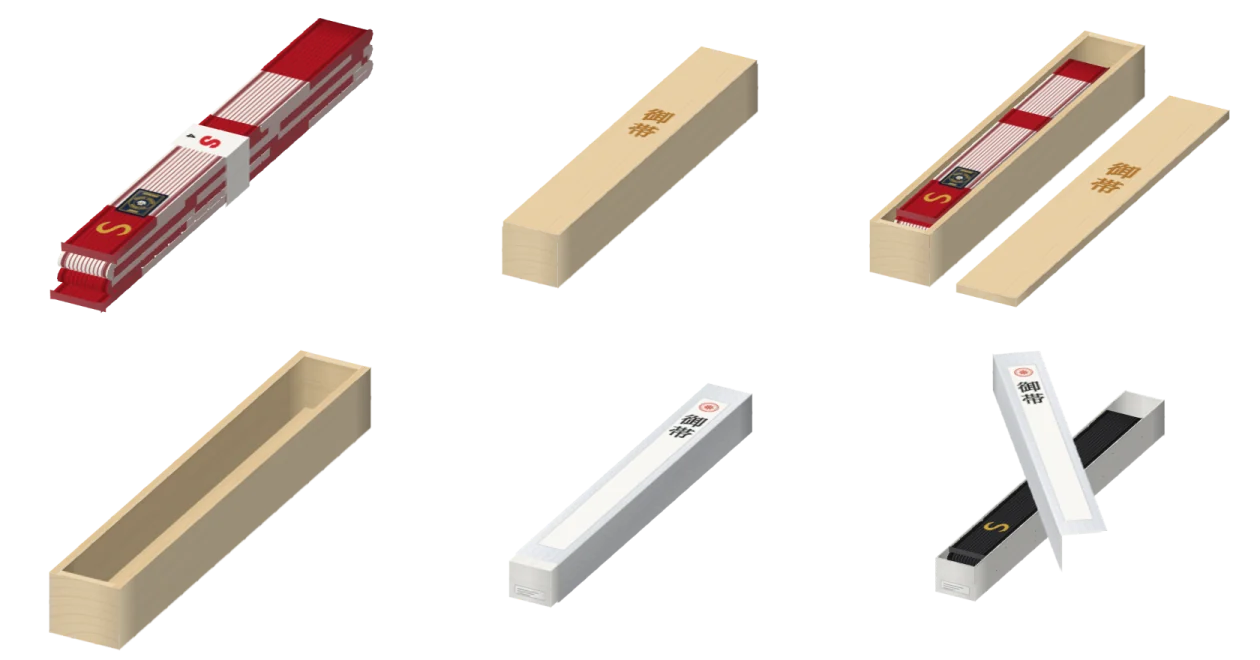
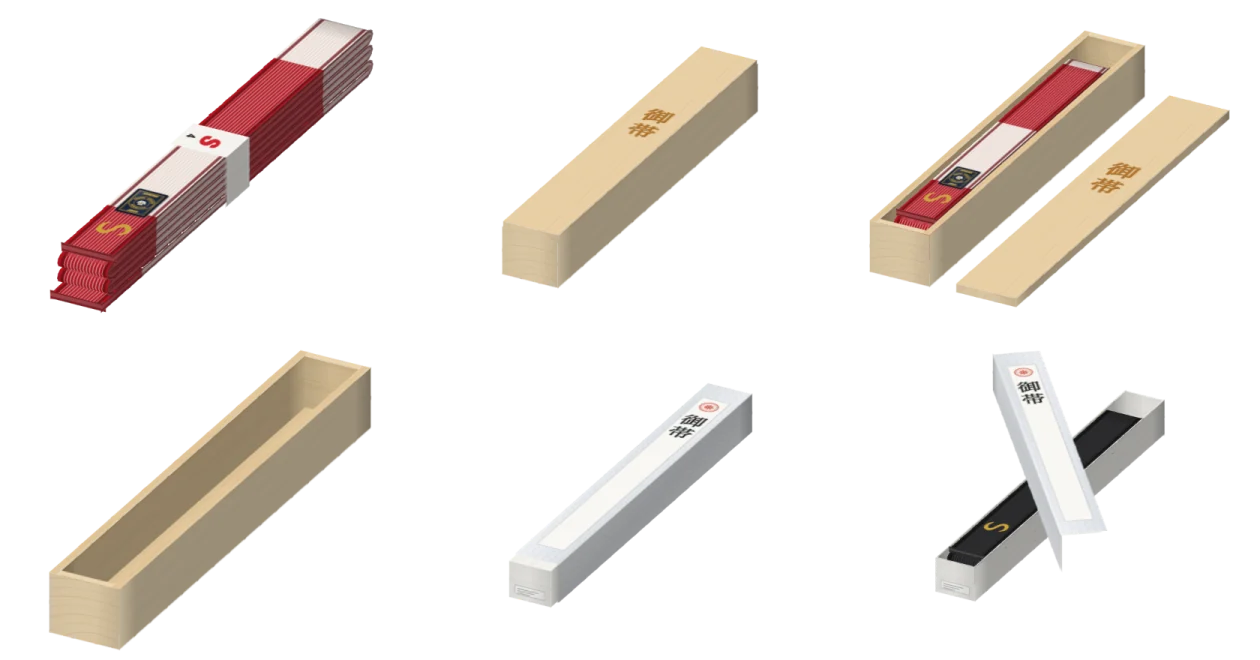
fix(belts): folded layers line up, fine rows

Changed region(s): [[0.031, 0.0303, 0.3095, 0.4545], [0.7119, 0.0909, 0.8976, 0.3636]]

diff --git a/demo/judogiIcons.js b/demo/judogiIcons.js
@@ -6,6 +6,6 @@ export const MODE_ICONS = {
[7 lines of base64/hex data omitted]
 };

diff --git a/src/beltBox.ts b/src/beltBox.ts
@@ -385,6 +385,8 @@ export interface Along {
   u: number;
   /** How much of the belt's thickness it has here, 0 to 1: a tight fold is thinner at its turn, or its inside would turn inside out. */
   k?: number;
+  /** On a fold: where the layer before it ended (how far along the belt and where across the bundle), which its picture carries on from. */
+  fold?: { u0: number; wx0: number };
 }
 
 /** Where the belt's plain stretch is laid on its strip. */
@@ -421,10 +423,10 @@ export function foldPath(f: FoldDesc): { points: Along[]; length: number; extent
   const side = n % 2 === 1 ? 1 : -1;
   const pts: Along[] = [];
   let u = 0;
-  const push = (p: Vec, d: Vec, out: Vec, k = 1): void => {
+  const push = (p: Vec, d: Vec, out: Vec, k = 1, fold?: { u0: number; wx0: number }): void => {
     const last = pts[pts.length - 1];
     if (last !== undefined) u += Math.hypot(p[0] - last.p[0], p[1] - last.p[1], p[2] - last.p[2]);
-    pts.push({ p, d, out, u, k });
+    pts.push({ p, d, out, u, k, ...(fold === undefined ? {} : { fold }) });
   };
   for (let i = 0; i < n; i++) {
     const dir = i % 2 === 0 ? -1 : 1;
@@ -439,6 +441,7 @@ export function foldPath(f: FoldDesc): { points: Along[]; length: number; extent
       const yc = (yAt(i) + yAt(i + 1)) / 2;
       const zn = f.z + ((((i + 1) * 37) % 5) - 2) * 0.02;
       const m = 6;
+      const anchor = { u0: u, wx0: b };
       for (let j = 1; j < m; j++) {
         const th = (Math.PI * j) / m;
         const sgn = left ? -1 : 1;
@@ -446,40 +449,67 @@ export function foldPath(f: FoldDesc): { points: Along[]; length: number; extent
         const dy = -Math.sin(th) * (yAt(i) - yc);
         const dl = Math.hypot(dx, dy) || 1;
         // The face looks to the right of the way the belt runs (the same side all along it).
-        push([b + sgn * Math.sin(th) * bulge, yc + Math.cos(th) * (yAt(i) - yc), lerp(z, zn, j / m)], [dx / dl, dy / dl, 0], [(-side * dy) / dl, (side * dx) / dl, 0], 1 - 0.5 * Math.sin(th));
+        push([b + sgn * Math.sin(th) * bulge, yc + Math.cos(th) * (yAt(i) - yc), lerp(z, zn, j / m)], [dx / dl, dy / dl, 0], [(-side * dy) / dl, (side * dx) / dl, 0], 1 - 0.5 * Math.sin(th), anchor);
       }
     }
   }
   return { points: pts, length: u, extent: [lo + shift, hi + shift] };
 }
 
-/** The strip's x for a place `u` centimetres along a belt `total` long, and which way x runs there (+1 with the belt, -1 against it). */
-function stripX(u: number, total: number, period: number): { x: number; dir: 1 | -1 } {
-  const uu = u * U;
-  const tot = total * U;
-  // Each free end lies on its own stretch of the strip, as long as the tied belt's hanging end (what is sewn on an end is laid out for that length).
-  const [endA, endB] = END_LENGTH;
-  if (uu < endB) return { x: (END_X[1] as number) + endB - uu, dir: -1 };
-  if (tot - uu < endA) return { x: (END_X[0] as number) + (uu - (tot - endA)), dir: 1 };
-  if (u < total / 2) return { x: (END_X[1] as number) - ((uu - endB) % period), dir: -1 };
-  return { x: X0 - 10 + (uu % period), dir: 1 };
+/**
+ * How the belt's picture is laid along it. Each free end lies on its own stretch of the strip, as long as the tied belt's hanging end (what is sewn on an end is laid
+ * out for that length, so the marks sit where they would). The rest of the belt takes its picture from where it lies across the bundle, one mapping for every layer
+ * (anchored on the top layer's tip, so that end stays red): a kohaku belt's red and white sections then change colour at the same place on every layer, and the side
+ * of the bundle is a clean stack of bands with straight joins. A fold carries the picture of the layer before it on round the turn.
+ */
+interface Laying {
+  total: number;
+  period: number;
+  /** +1 when the picture's x grows toward +x across the bundle, -1 toward -x (the way the top layer's tip lies). */
+  sx: 1 | -1;
+  c: number;
 }
+
+function layingOf(points: readonly Along[], period: number): Laying {
+  const last = points[points.length - 1] as Along;
+  const sx: 1 | -1 = last.d[0] >= 0 ? 1 : -1;
+  const [endA] = END_LENGTH;
+  return { total: last.u, period, sx, c: (END_X[0] as number) + endA - sx * U * last.p[0] };
+}
+
+/** The picture's x at a place on the belt, not wrapped; `mid` says which stretch (by the middle of the step) and the fold, if any, it carries on from. */
+function texAt(l: Laying, u: number, p: Along, mode: "A" | "B" | "bulk"): number {
+  const [endA, endB] = END_LENGTH;
+  if (mode === "B") return (END_X[1] as number) + endB - u * U;
+  if (mode === "A") return (END_X[0] as number) + endA - (l.total - u) * U;
+  if (p.fold !== undefined) return l.sx * U * p.fold.wx0 + l.c + (u - p.fold.u0) * U;
+  return l.sx * U * p.p[0] + l.c;
+}
+
+const modeOf = (l: Laying, u: number): "A" | "B" | "bulk" => {
+  const [endA, endB] = END_LENGTH;
+  return u * U < endB ? "B" : (l.total - u) * U < endA ? "A" : "bulk";
+};
+
+/** The plain stretch of the strip is laid from -40 for one period (the free ends' marks are further along it). */
+const wrapBulk = (x: number, period: number): number => -40 + ((((x + 40) % period) + period) % period);
 
 function foldedCells(k: Sink, f: FoldDesc, r: Regions): void {
   const { points, length } = foldPath(f);
   const hw = f.w / 2;
-  // The strip's places where its look changes (where a free end's marks end, and the middle) fall between cells: a step is cut there.
-  const cuts = [END_LENGTH[1] / U, length - END_LENGTH[0] / U, length / 2];
+  const lay = layingOf(points, f.period);
+  // Where a free end's marks end the picture changes: a step is cut there.
+  const cuts = [END_LENGTH[1] / U, length - END_LENGTH[0] / U];
   for (let i = 0; i + 1 < points.length; i++) {
     let a = points[i] as Along;
     const b = points[i + 1] as Along;
     for (const c of cuts.filter((q) => q > a.u + 1e-6 && q < b.u - 1e-6).sort((p, q) => p - q)) {
       const q = (c - a.u) / (b.u - a.u);
-      const mid: Along = { p: [lerp(a.p[0], b.p[0], q), lerp(a.p[1], b.p[1], q), lerp(a.p[2], b.p[2], q)], d: a.d, out: a.out, u: c, k: a.k ?? 1 };
-      step(k, a, mid, hw, f.t, length, f.period);
+      const mid: Along = { p: [lerp(a.p[0], b.p[0], q), lerp(a.p[1], b.p[1], q), lerp(a.p[2], b.p[2], q)], d: a.d, out: a.out, u: c, k: a.k ?? 1, ...(a.fold === undefined ? {} : { fold: a.fold }) };
+      step(k, a, mid, hw, f.t, lay);
       a = mid;
     }
-    step(k, a, b, hw, f.t, length, f.period);
+    step(k, a, b, hw, f.t, lay);
   }
   const first = points[0] as Along;
   const last = points[points.length - 1] as Along;
@@ -495,13 +525,16 @@ const FACE_INSET = 0.2;
 const corner = (p: Along, across: Vec, side: number, hw: number, face: number, T: number): Vec => add(p.p, add(scale(across, side * hw), scale(p.out, face * (T / 2) * (p.k ?? 1))));
 
 /** One step of the belt between two samples: its face, its back, its two long edges, each on its part of the strip. */
-function step(k: Sink, a: Along, b: Along, hw: number, T: number, total: number, period: number): void {
-  const here = stripX((a.u + b.u) / 2, total, period);
-  const start = stripX(a.u + 1e-6, total, period);
-  const x0 = start.x;
-  const x1 = x0 + here.dir * (b.u - a.u) * U;
-  // The belt's width runs along out x (the way the strip's x runs), so the picture of its face reads right from the outside.
-  const across = (s: Along): Vec => unit(cross(s.out, scale(s.d, here.dir)));
+function step(k: Sink, a: Along, b: Along, hw: number, T: number, lay: Laying): void {
+  const mode = modeOf(lay, (a.u + b.u) / 2);
+  const t0 = texAt(lay, a.u + 1e-6, a, mode);
+  const t1 = texAt(lay, b.u - 1e-6, b, mode);
+  // The ends' own stretches are not wrapped; the rest of the belt is laid on the plain part of the strip.
+  const x0 = mode === "bulk" ? wrapBulk(t0, lay.period) : t0;
+  const x1 = x0 + (t1 - t0);
+  const dir: 1 | -1 = x1 >= x0 ? 1 : -1;
+  // The belt's width runs along out x (the way the picture's x runs), so the picture of its face reads right from the outside.
+  const across = (s: Along): Vec => unit(cross(s.out, scale(s.d, dir)));
   const A = across(a);
   const B = across(b);
   const w = hw * 2 * U;

diff --git a/test/beltBox.test.ts b/test/beltBox.test.ts
@@ -235,3 +235,26 @@ test("the check says when a belt does not fit a box", () => {
   // Other modes do not carry the note.
   assert.ok(!judogiCheck({ mode: "belt" }).notes.some((n) => n.id === "belt-box-fit"));
 });
+
+test("the layers of a folded kohaku belt change colour at the same place across the bundle, so its side is a clean stack", () => {
+  const period = 78.9;
+  const desc = sceneOf({ beltSize: 4, widthCm: 4.5, thickCm: 0.49, belt: true, band: false, period, rot: 0 });
+  const cells = solidCells(desc).filter((c) => c.tex[1] === 0 && c.tex[3] === 0);
+  const offsets: number[] = [];
+  const layers = new Set<number>();
+  for (const c of cells) {
+    const xs = [c.p[0]!, c.p[3]!, c.p[6]!].map((v) => v / UNITS_PER_CM);
+    const wx = (xs[0]! + xs[1]! + xs[2]!) / 3;
+    const tx = (c.tex[0]! + c.tex[2]! + c.tex[4]!) / 3;
+    // Straight stretches of the plain part of the strip only: not the free ends' own stretches, not a fold.
+    if (Math.max(...xs) - Math.min(...xs) < 1 || tx >= 58 || tx < -40) continue;
+    const sx = (c.tex[2]! - c.tex[0]!) * (xs[1]! - xs[0]!) >= 0 ? 1 : -1;
+    offsets.push((((tx - sx * UNITS_PER_CM * wx) % period) + period) % period);
+    layers.add(Math.round((c.p[1]! / UNITS_PER_CM) * 20));
+  }
+  assert.ok(offsets.length > 40 && layers.size >= 4, `${offsets.length} cells on ${layers.size} heights`);
+  // The picture's x less its place across the bundle is one number for every layer (a few units of slack for the cells' own width).
+  const spread = (a: number[]): number => Math.max(...a) - Math.min(...a);
+  const near = offsets.map((o) => (o > period / 2 ? o - period : o));
+  assert.ok(spread(near) < 6 || spread(offsets) < 6, `the layers' pictures are not aligned (${spread(offsets).toFixed(1)} units)`);
+});

diff --git a/src/judogi.ts b/src/judogi.ts
@@ -388,7 +388,9 @@ function solidSheet(o: Ready, yaw: number): Sheet {
   const plain = o.belt === "none" && box ? undefined : paintOf(o, o.belt === "none" ? "white" : o.belt);
   // Folded, a belt shows its label at the free end, as a shop shows it: what is sewn on a hanging end sits well up from its tip, so it is moved toward the tip (an embroidery keeps its place).
   const toTip = (m: Mark | undefined, keep: boolean): Mark | undefined => (m === undefined || keep ? m : { ...m, body: `<g transform="translate(${TO_TIP} 0)">${m.body}</g>` });
-  const paint: BeltPaint | undefined = plain?.ends === undefined ? plain : { ...plain, ends: { ...(plain.ends.left === undefined ? {} : { left: toTip(plain.ends.left, o.beltEmb.left) as Mark }), ...(plain.ends.right === undefined ? {} : { right: toTip(plain.ends.right, o.beltEmb.right) as Mark }) } };
+  // Folded, the rows of stitching are fine (thirteen, as a kohaku belt has) and a kohaku's are pale, as the maker's white thread is, so the broad faces read as cloth and not as stripes.
+  const fine = plain === undefined ? undefined : { ...plain, rows: plain.rows ?? 13, ...(o.belt === "red-white" ? { stitch: "#eac6c6" } : {}) };
+  const paint: BeltPaint | undefined = fine?.ends === undefined ? fine : { ...fine, ends: { ...(fine.ends.left === undefined ? {} : { left: toTip(fine.ends.left, o.beltEmb.left) as Mark }), ...(fine.ends.right === undefined ? {} : { right: toTip(fine.ends.right, o.beltEmb.right) as Mark }) } };
   const sectionCm = Math.max(12, Math.min(18, 12 + (6 * (HEIGHT_OF[o.size] - 150)) / 50));
   const widthCm = o.beltCm ?? beltDefaultWidthCm(o.belt === "none" ? "white" : o.belt);
   const { fits, boxSize, ...desc } = sceneOf({

diff --git a/src/beltBoxFace.ts b/src/beltBoxFace.ts
@@ -178,7 +178,9 @@ export function solidFace(desc: SolidDesc, paint: BeltPaint | undefined, look: B
   const r = regionsOf(desc);
   const belt = paint !== undefined && desc.belt !== undefined ? strapFace(paint, desc.belt.w * 2.63, rows) : undefined;
   // The belt's edges are drawn dark (the rows seen end on); folded, the whole side of the bundle is edges, so they are lifted toward the cloth's own colour.
-  let body = (belt?.body ?? "") + (belt === undefined ? "" : `<rect x="-40" y="${EDGE1_Y - 1.5}" width="280" height="${EDGE_H + 3}" fill="#fff" fill-opacity="0.24"/>`);
+  let body = (belt?.body ?? "") + (belt === undefined ? "" : `<rect x="-40" y="${EDGE1_Y - 1.5}" width="280" height="${EDGE_H + 3}" fill="#fff" fill-opacity="0.24"/>` +
+    // A fine dark line where one layer lies on the next, so the side reads as a stack of bands.
+    `<path d="M-40 ${EDGE1_Y + 0.5}H240M-40 ${EDGE1_Y + EDGE_H - 0.5}H240" stroke="${paint?.edge ?? "#000"}" stroke-width="1" stroke-opacity="0.6"/>`);
   const clip = [...(belt?.clip ?? [])];
   const put = (rect: Rect, inner: string): void => {
     body += group(rect, inner);
